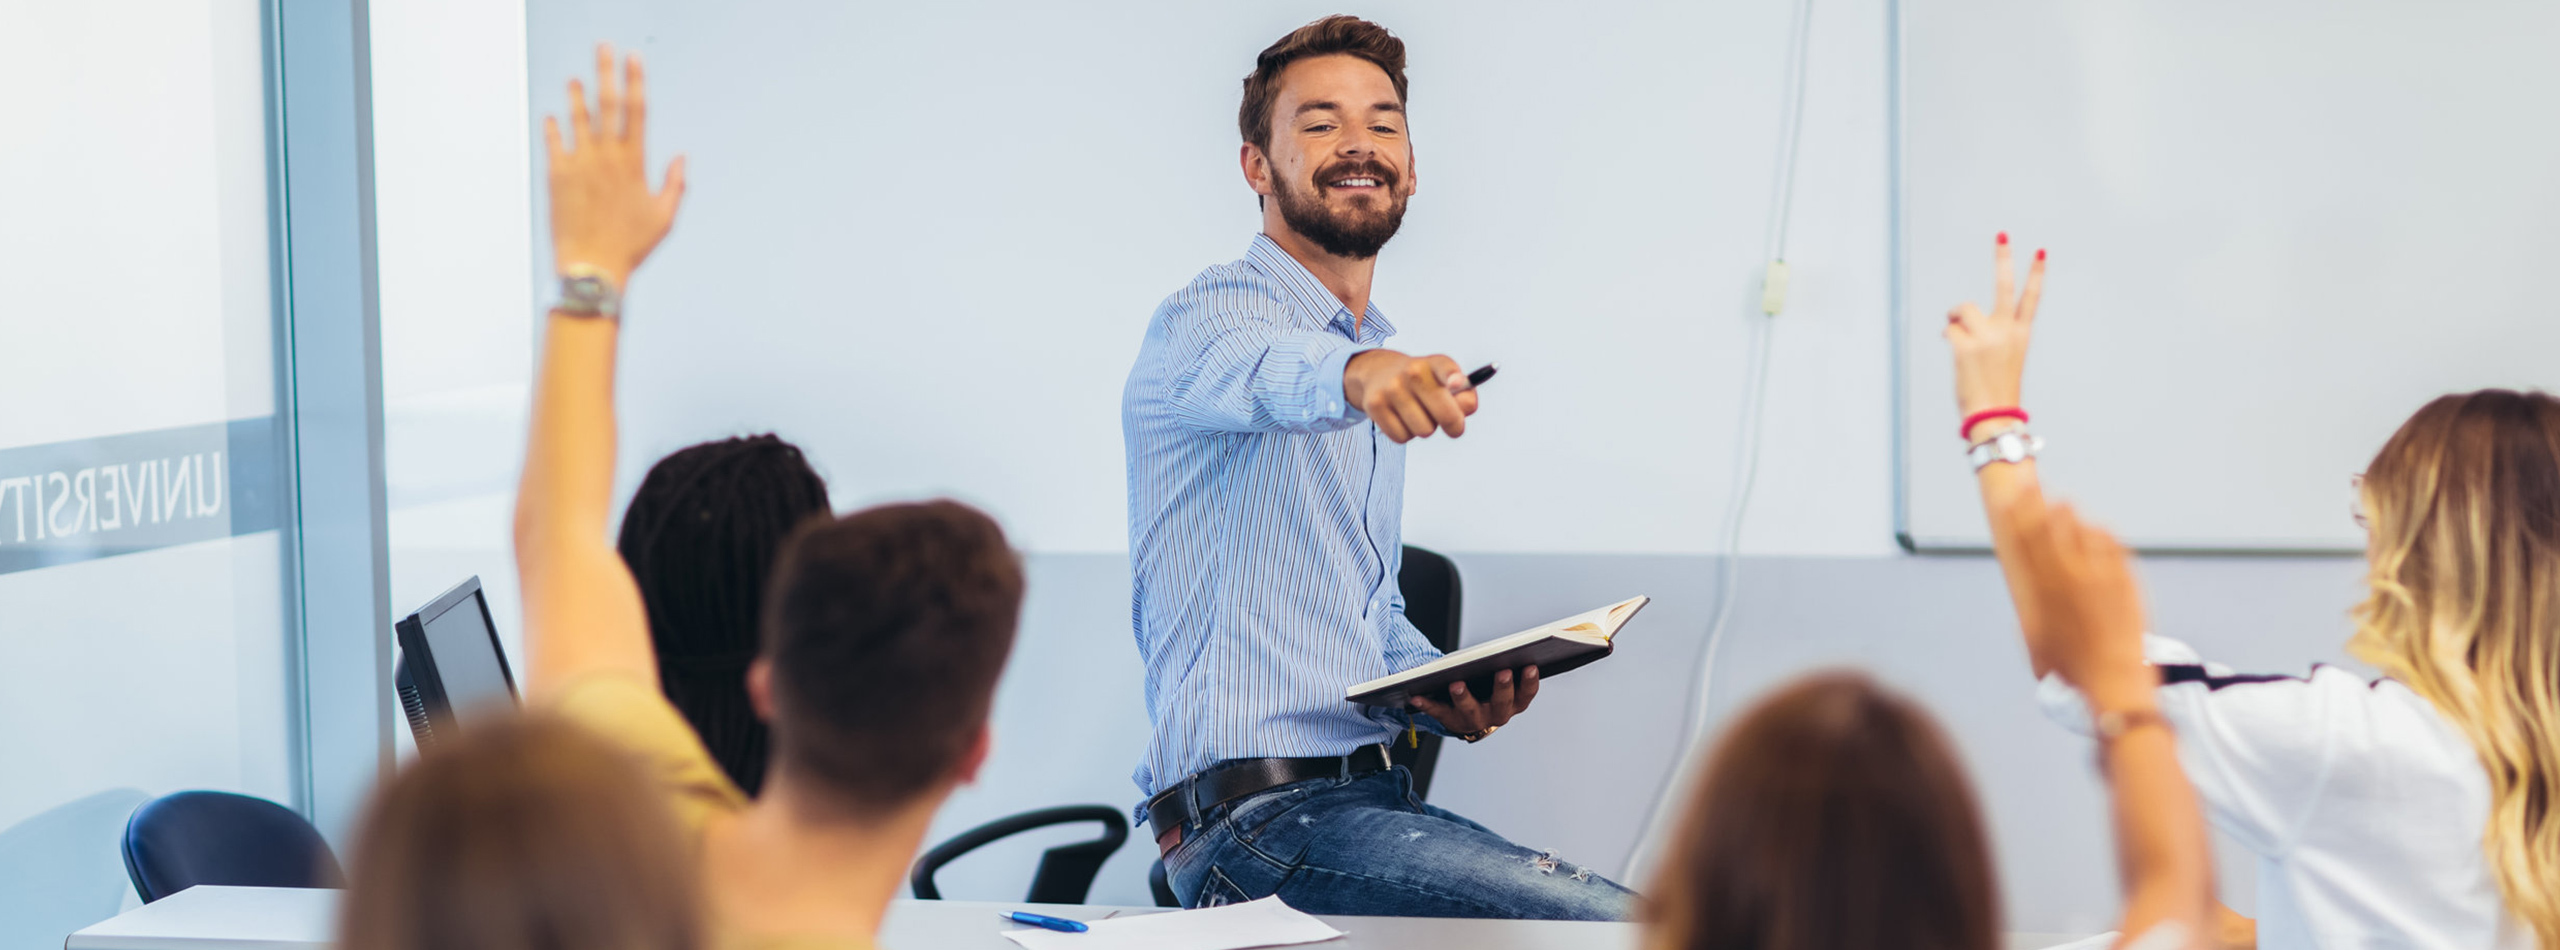
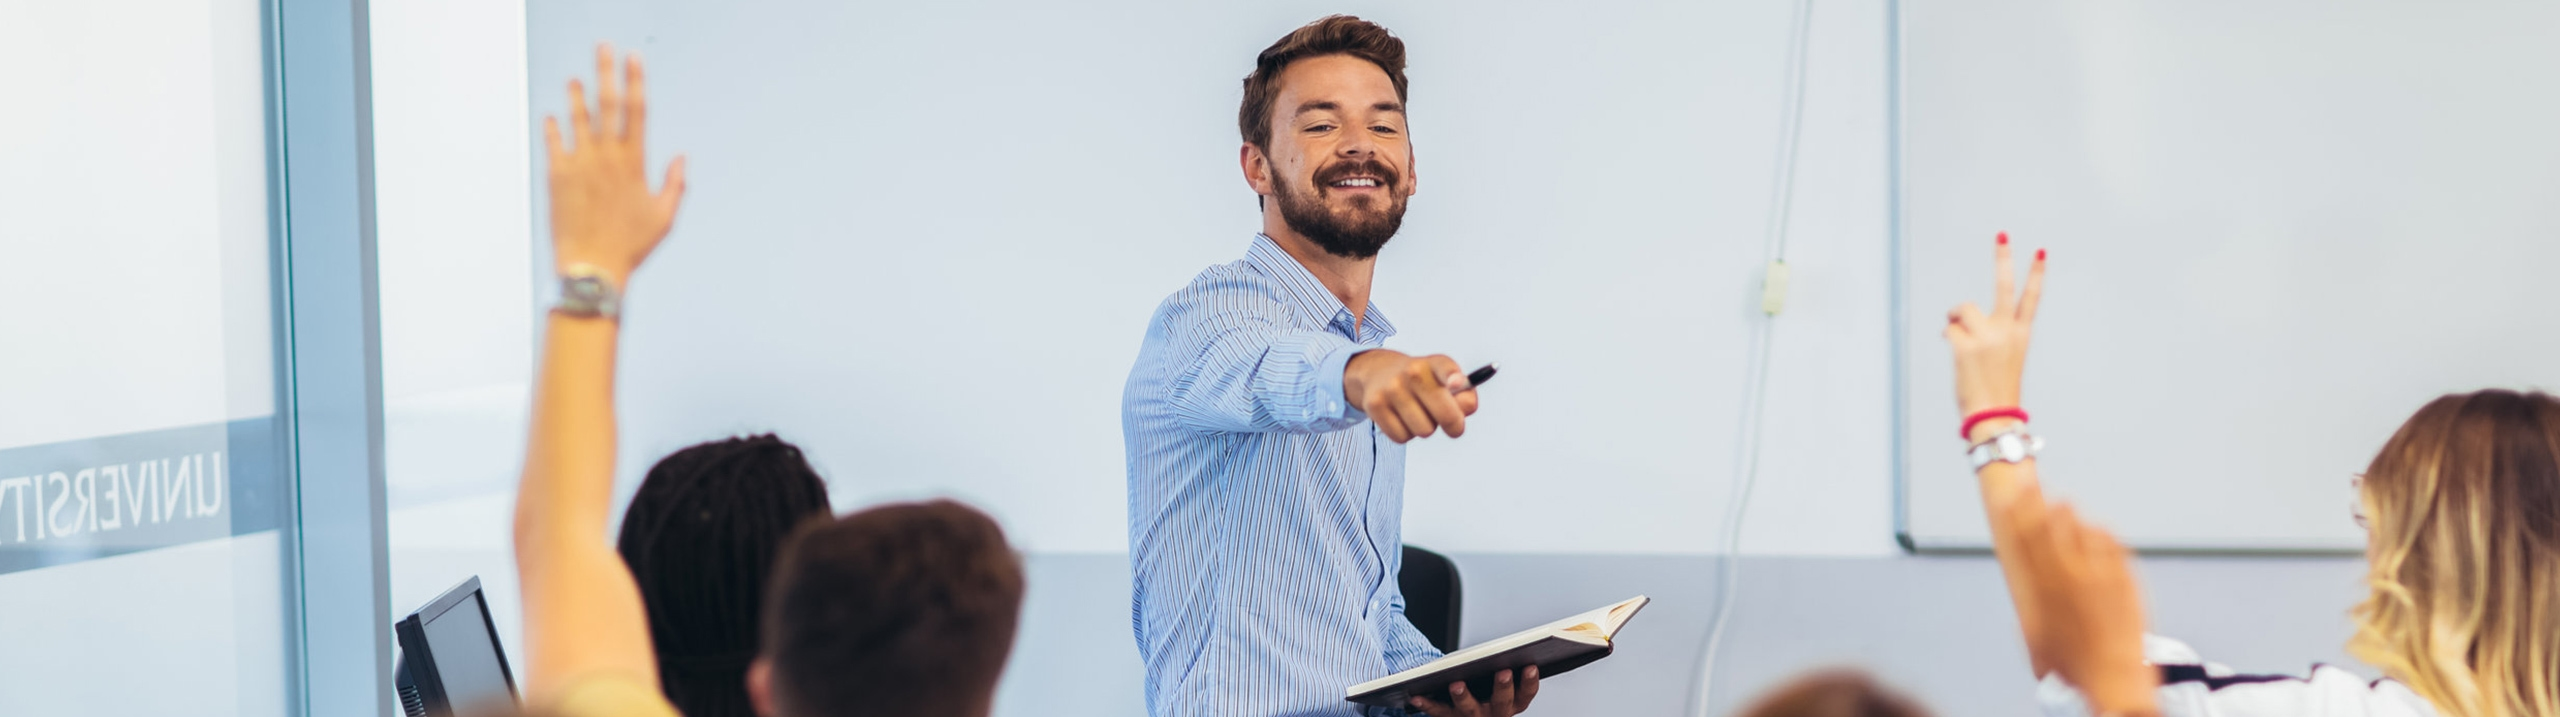
Add files via upload

diff --git a/index.css b/index.css
@@ -97,7 +97,7 @@ nav .navigation ul li a:hover {
     width: auto;
     height: 120vh;
     background-size: cover;
-    background-position: center;
+    background-position: top;
     display: flex;
     flex-direction: column;
     justify-content: center;
@@ -205,7 +205,7 @@ nav .navigation ul li a:hover {
 /* course */
 
 #courses {
-    padding: 8vw 8vw 0 8vw;
+    padding: 8vw;
     text-align: center;
 }
 
